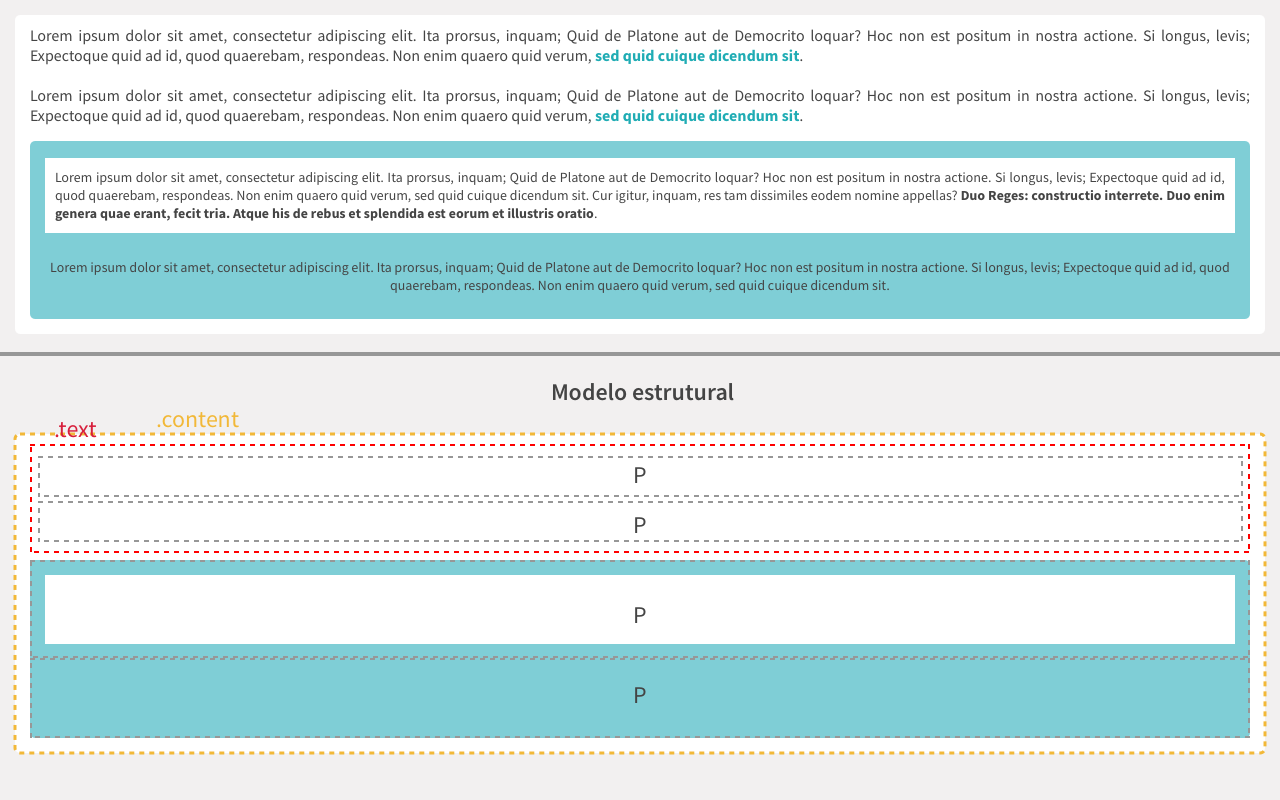
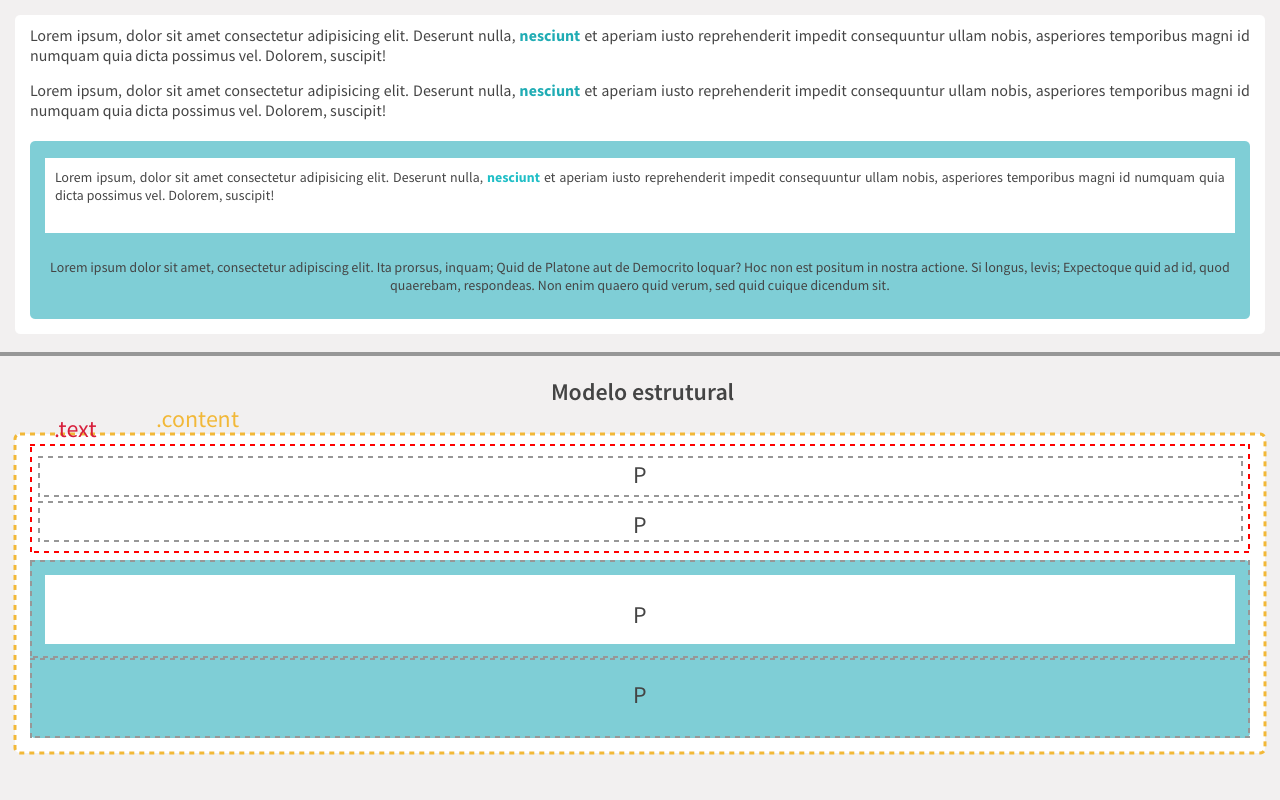
Correções

Changed region(s): [[0.0312, 0.0312, 0.9688, 0.1562], [0.0312, 0.2188, 0.9688, 0.2812]]

diff --git a/src/index.html b/src/index.html
@@ -14,7 +14,7 @@
       <p>Lorem ipsum, dolor sit amet consectetur adipisicing elit. Deserunt nulla, <strong>nesciunt</strong> et aperiam iusto reprehenderit impedit consequuntur ullam nobis, asperiores temporibus magni id numquam quia dicta possimus vel. Dolorem, suscipit!</p>
     </div>
     <p>Lorem ipsum, dolor sit amet consectetur adipisicing elit. Deserunt nulla, <strong>nesciunt</strong> et aperiam iusto reprehenderit impedit consequuntur ullam nobis, asperiores temporibus magni id numquam quia dicta possimus vel. Dolorem, suscipit!</p>
-    <p>Lorem ipsum, dolor sit amet consectetur adipisicing elit.</p>
+    <p>Lorem ipsum dolor sit amet, consectetur adipiscing elit. Ita prorsus, inquam; Quid de Platone aut de Democrito loquar? Hoc non est positum in nostra actione. Si longus, levis; Expectoque quid ad id, quod quaerebam, respondeas. Non enim quaero quid verum, sed quid cuique dicendum sit.</p>
   </div>
 </body>
 </html>
